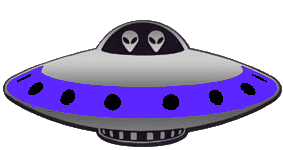
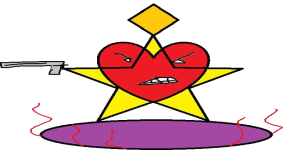
Updated ships and can't go out of screen

diff --git a/index.html b/index.html
@@ -4,48 +4,58 @@
     <link rel="stylesheet" href="Style.css"></link>
     <meta http-equiv="Content-Type" content="text/html; charset=utf-8"/>
     <meta charset="utf-8" />
+    <title>Flight Game</title>
+
+    <script src="script/util.js"></script>
+    <script src="script/Bootstrap.js"></script>
+    <script src="script/Update.js"></script>
+    <script src="script/Choose.js"></script>
+    <script src="script/Input.js"></script>
 
 </head>
 <body>
 
     <div id="mainChar" class="char"></div>
 
-    <div id="chooseTitle" class="chooseTitle"></div>
+    <div id="chooseTitle" class="chooseTitle">Player 1 scegli la navicella:<br>Spostati con le frecce e spara con P</div>
     <br>
     
     <ul>
         <li>
-        <div id="blueShip" class="Scelta">
-            <img class="Scelta" alt="Boscata" src="images/sship1.png" onmouseover="Over(this)" onmouseout="notOver(this)" onclick="ClickShip(this);"></img>
+        <div class="Scelta">
+            <img id="Q-uore" class="Scelta" alt="Boscata" src="images/sship1.png" onmouseover="Over(this)" onmouseout="notOver(this)" onclick="ClickShip(this);"></img>
         </div>
         </li>
         <li>
-        <div id="redShip" class="Scelta">
-            <img class="Scelta" alt="Boscata" src="images/sship2.png" onmouseover="Over(this)" onmouseout="notOver(this)" onclick="ClickShip(this);"></img>
+        <div class="Scelta">
+            <img id="Sharingo" class="Scelta" alt="Boscata" src="images/sship2.png" onmouseover="Over(this)" onmouseout="notOver(this)" onclick="ClickShip(this);"></img>
         </div>
         </li>
         <li>
-        <div id="yellowShip" class="Scelta">
-            <img class="Scelta" alt="Boscata" src="images/sship3.png" onmouseover="Over(this)" onmouseout="notOver(this)" onclick="ClickShip(this);"></img>
+        <div class="Scelta">
+            <img id="Alienship" class="Scelta" alt="Boscata" src="images/sship3.png" onmouseover="Over(this)" onmouseout="notOver(this)" onclick="ClickShip(this);"></img>
         </div>
         </li>
         <li>
-        <div id="blackShip" class="Scelta">
-            <img class="Scelta" alt="Boscata" src="images/sship4.png" onmouseover="Over(this)" onmouseout="notOver(this)" onclick="ClickShip(this);"></img>
+        <div class="Scelta">
+            <img id="Solbadguy" class="Scelta" alt="Boscata" src="images/sship4.png" onmouseover="Over(this)" onmouseout="notOver(this)" onclick="ClickShip(this);"></img>
         </div>
         </li>
         <li>
-        <div id="anilShip" class="Scelta">
-            <img class="Scelta" alt="Boscata" src="images/sship5.png" onmouseover="Over(this)" onmouseout="notOver(this)" onclick="ClickShip(this);"></img>
+        <div class="Scelta">
+            <img id="Starship" class="Scelta" alt="Boscata" src="images/sship5.png" onmouseover="Over(this)" onmouseout="notOver(this)" onclick="ClickShip(this);"></img>
+        </div>
+        </li>
+        <li>
+        <div class="Scelta">
+            <img id="SirPente" class="Scelta" alt="Boscata" src="images/sship6.png" onmouseover="Over(this)" onmouseout="notOver(this)" onclick="ClickShip(this);"></img>
+        </div>
+        </li>
+        <li>
+        <div class="Scelta">
+            <img id="NimRod" class="Scelta" alt="Boscata" src="images/sship7.png" onmouseover="Over(this)" onmouseout="notOver(this)" onclick="ClickShip(this);"></img>
         </div>
         </li>
     </ul>
-    
 </body>
 </html>
-
-<script src="script/util.js"></script>
-<script src="script/Bootstrap.js"></script>
-<script src="script/Update.js"></script>
-<script src="script/Choose.js"></script>
-<script src="script/Input.js"></script>

diff --git a/script/Update.js b/script/Update.js
@@ -30,17 +30,8 @@ function Update() {
                 document.getElementById('l2').innerText = "LIFE: " + Characters.c2.life;
                 remove(colpi, i);
                 
-                if (Characters.c2.life == 0) {
-                    document.body.innerHTML = "";
-                    var win = document.createElement('p');
-                    win.innerHTML = 'Il vincitore è Player 1!';
-                    Characters.c1.ship.style.left = '100px';
-                    Characters.c1.ship.style.top = '100px';
-                    document.body.appendChild(win);
-                    document.body.appendChild(Characters.c1.ship);
-                    colpi = {};
-                    clearInterval(Timer);
-                }
+                if (Characters.c2.life == 0)
+                    SetWinner(1);
             }
 
             /* Collides First Ship */
@@ -49,17 +40,8 @@ function Update() {
                 document.getElementById('l1').innerText = "LIFE: " + Characters.c1.life;
                 remove(colpi, i);
 
-                if (Characters.c1.life == 0) {
-                    document.body.innerHTML = "";
-                    var win = document.createElement('p');
-                    win.innerHTML = 'Il vincitore è Player 2!';
-                    Characters.c2.ship.style.left = '100px';
-                    Characters.c2.ship.style.top = '100px';
-                    document.body.appendChild(win);
-                    document.body.appendChild(Characters.c2.ship);
-                    colpi = {};
-                    clearInterval(Timer);
-                }
+                if (Characters.c1.life == 0)
+                    SetWinner(2);
             }
 
         }
@@ -77,7 +59,8 @@ function UpdateInput() {
     /* First Ship */
     if (pressedKeys[37] == true) {
         /* left arrow */
-        Characters.c1.ship.style.left = parseInt(Characters.c1.ship.style.left) - vx + 'px';
+        var oldx = parseInt(Characters.c1.ship.style.left);
+        if (oldx >= 0) Characters.c1.ship.style.left = ( oldx - vx ) + 'px';
     }
 
     if (pressedKeys[38] == true) {
@@ -86,9 +69,9 @@ function UpdateInput() {
     }
 
     if (pressedKeys[39] == true) {
-        /* right arrow */
-        Characters.c1.ship.style.left = parseInt(Characters.c1.ship.style.left) + vx + 'px';
-    }
+        /* right arrow */      
+        var oldx = parseInt(Characters.c1.ship.style.left);
+        if (oldx <= ( GetWidth() - parseInt(Characters.c1.ship.style.width) ) ) Characters.c1.ship.style.left = ( oldx + vx ) + 'px';    }
 
     if (pressedKeys[40] == true) {
         /* down arrow */
@@ -104,7 +87,8 @@ function UpdateInput() {
     /* WASD SpaceBar */
     if (pressedKeys[65] == true) {
         /* left arrow */
-        Characters.c2.ship.style.left = parseInt(Characters.c2.ship.style.left) - vx + 'px';
+        var oldx = parseInt(Characters.c2.ship.style.left);
+        if (oldx >= 0) Characters.c2.ship.style.left = ( oldx - vx ) + 'px';
     }
 
     if (pressedKeys[87] == true) {
@@ -114,7 +98,8 @@ function UpdateInput() {
 
     if (pressedKeys[68] == true) {
         /* right arrow */
-        Characters.c2.ship.style.left = parseInt(Characters.c2.ship.style.left) + vx + 'px';
+        var oldx = parseInt(Characters.c2.ship.style.left);
+        if (oldx <= ( GetWidth() - parseInt(Characters.c2.ship.style.width) ) ) Characters.c2.ship.style.left = ( oldx + vx ) + 'px';
     }
 
     if (pressedKeys[83] == true) {

diff --git a/script/util.js b/script/util.js
@@ -118,6 +118,8 @@ function InitializeScenario()
         background.alt = 'Could not display background';
         background.src = 'images/background.jpg';
         background.class = 'background';
+        background.style.width = GetWidth() + 'px';
+        background.style.height = GetHeight() + 'px';
 
         document.body.appendChild(background);
 
@@ -133,4 +135,38 @@ function InitializeScenario()
 
         document.addEventListener("keydown", KeyDown, false);
         document.addEventListener("keyup", KeyUp, false);
+}
+
+function AddCounter()
+{
+    var counter = document.createElement('script');
+    counter.type = 'text/javascript';
+    counter.src = 'http://www.altervista.org/js_tags/contatore.js';
+    document.appendChild('counter');    
+}
+
+function SetWinner(id)
+{
+    clearInterval(Timer);
+    colpi = {};
+
+    document.body.innerHTML = "";
+
+    if ( id == 1 )
+	    var winner = Characters.c1.ship;
+	    else var winner = Characters.c2.ship;
+	    
+    document.write('Il vincitore è Player' + id + '!' + '<br>' + 'con ' + winner.id);
+
+    document.body.appendChild(winner);
+   
+    winner.style.left = '100px';
+    winner.style.top = '100px';
+	
+    document.write('<br>');
+    document.write('<br>');
+
+    document.write('Partite Giocate: ');
+    
+    document.write('<script type="text/javascript" src="http://www.altervista.org/js_tags/contatore.js"></script>');
 }

diff --git a/script/Bootstrap.js b/script/Bootstrap.js
@@ -21,6 +21,3 @@ function Character(ship){
     this.ship = ship;
     this.life = 100;
 }
-
-document.title = "Flight Game"
-document.getElementById('chooseTitle').innerText = 'Player 1 scegli la navicella:\nSpostati con le frecce e spara con P';

diff --git a/Style.css b/Style.css
@@ -40,6 +40,7 @@
     width: 160px;
     float: left;
     margin-left: 85px;
+    margin-bottom: 100px;
     left: -80px;
 }
 
